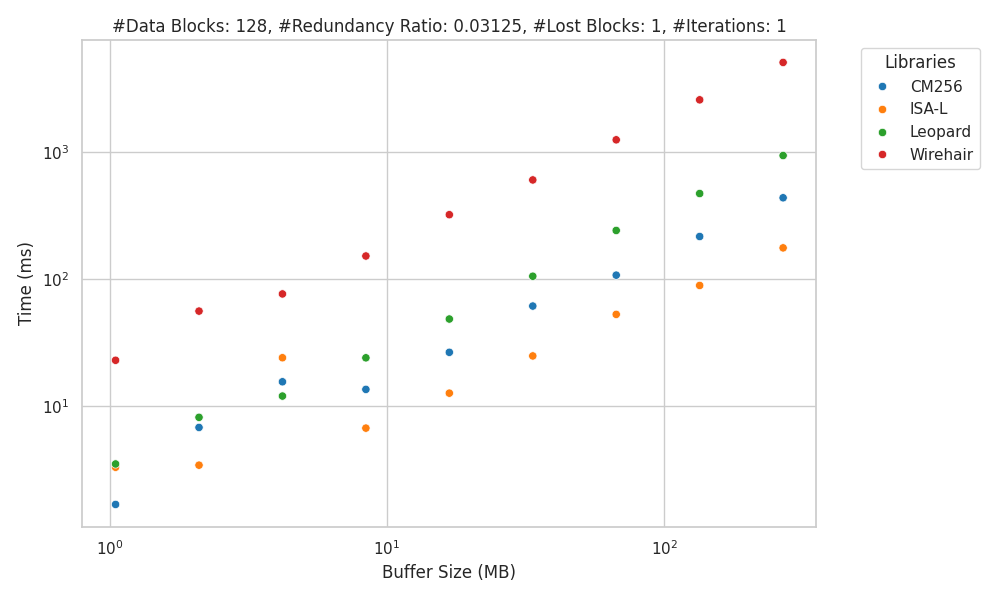
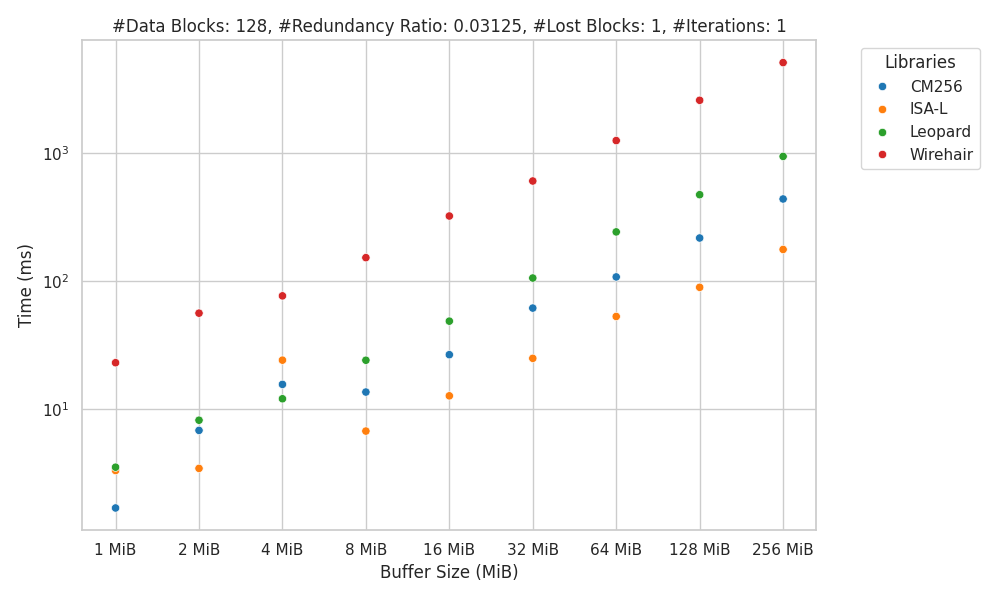
Properly set the x-ticks

diff --git a/scripts/plot_benchmark_results.py b/scripts/plot_benchmark_results.py
@@ -7,33 +7,6 @@ import seaborn as sns
 INPUT_FILE = './results/raw/benchmark_results.csv'
 OUTPUT_DIR = './results/processed/'
 
-  
-
-# def plot_x_buffer_size__y_throughout(df: pd.DataFrame):
-#   file_name = 'buffer_size_vs_throughput.png'
-
-#   # Set plot style
-#   sns.set_theme(style="whitegrid")
-
-#   # Create the plot
-#   plt.figure(figsize=(10,6))
-
-#   sns.scatterplot(data=df, x='total_MB', y='throughput_Gbps', hue='name', palette='tab10')
-
-#   # Customize the plot
-#   plt.title('Benchmark Results', fontsize=16)
-#   plt.xlabel('Total Buffer Size (MB)', fontsize=12)
-#   plt.ylabel('Throughput (Gbps)', fontsize=12)
-#   plt.xscale('log')  # If you want to use log scale for x-axis
-#   plt.yscale('log')  # If you want to use log scale for y-axis
-#   plt.legend(title='Benchmark Names', bbox_to_anchor=(1.05, 1), loc='upper left')
-
-#   # Save the plot to a file
-#   plt.tight_layout()
-#   plt.savefig(OUTPUT_DIR+file_name)
-
-#   # Show the plot
-#   plt.show()
 
 def bufferSize_vs_time(df: pd.DataFrame):
   file_name = 'buffer_size_vs_time.png'
@@ -46,7 +19,10 @@ def bufferSize_vs_time(df: pd.DataFrame):
   title = f"#Data Blocks: {num_data_blocks}, #Redundancy Ratio: {redundancy_ratio}, #Lost Blocks: {num_lost_blocks}, #Iterations: {num_iterations}"
 
   # Get buffer size in MB
-  df['tot_data_size_MB'] = df['tot_data_size_B'] / 1e6
+  df['tot_data_size_MiB'] = df['tot_data_size_B'] // (1024 * 1024)
+
+  # Get the measured buffer sizes
+  buffer_sizes = sorted(df['tot_data_size_MiB'].unique())
 
   # Set plot style
   sns.set_theme(style="whitegrid")
@@ -54,15 +30,20 @@ def bufferSize_vs_time(df: pd.DataFrame):
   # Create the plot
   plt.figure(figsize=(10,6))
   
-  sns.scatterplot(data=df, x='tot_data_size_MB', y='time_ms', hue='name', palette='tab10')
+  sns.scatterplot(data=df, x='tot_data_size_MiB', y='time_ms', hue='name', palette='tab10')
 
   # Customize the plot
   plt.title(title, fontsize=12)
-  plt.xlabel("Buffer Size (MB)", fontsize=12)
+  plt.xlabel("Buffer Size (MiB)", fontsize=12)
   plt.ylabel("Time (ms)", fontsize=12)
   plt.xscale('log')
   plt.yscale('log')
   plt.legend(title='Libraries', bbox_to_anchor=(1.05, 1), loc='upper left')
+
+  # Properly set x-ticks
+  ax = plt.gca()
+  ax.set_xticks(buffer_sizes)
+  ax.set_xticklabels([str(sz) + " MiB" for sz in buffer_sizes])
 
   # Save the plot to a file
   plt.tight_layout()
